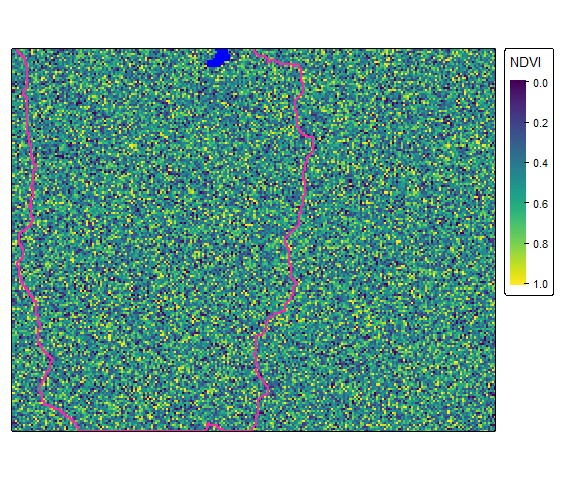
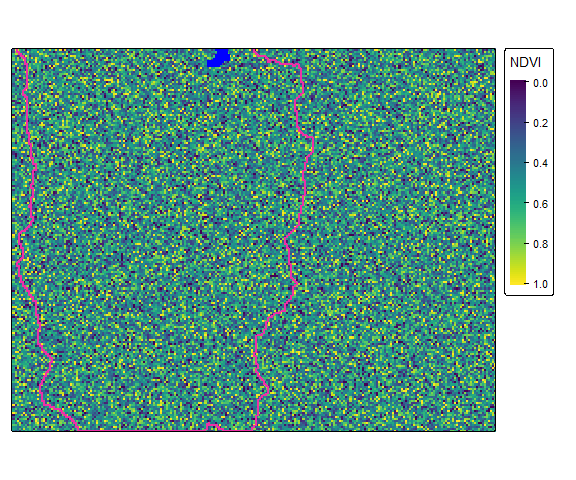
Updates zenodo badge and citation info

diff --git a/README.md b/README.md
@@ -53,7 +53,7 @@ hydroweight: Distance-weighted rasters and landscape attributes
 
 <!-- README.md is generated from this file. Please edit README.Rmd. -->
 
-[![](https://zenodo.org/badge/330996075.svg)](https://zenodo.org/badge/latestdoi/330996075)
+[![DOI](https://zenodo.org/badge/DOI/10.5281/zenodo.4728558.svg)](https://doi.org/10.5281/zenodo.4728558)
 
 # hydroweight
 
@@ -305,8 +305,8 @@ hw <- hydroweight(
   weighting_scheme = c("lumped","iEucO","iFLO","HAiFLO","iEucS","iFLS","HAiFLS"),
   inv_function    = myinv,
 )
-#> Preparing hydroweight layers @ 2026-03-28 00:26:14.042184
-#> Running distance-weighting @ 2026-03-28 00:26:14.333311
+#> Preparing hydroweight layers @ 2026-07-04 09:33:40.797256
+#> Running distance-weighting @ 2026-07-04 09:33:41.209143
 
 # hw comes in as a list of PackedSpatRaster, ensure elements are SpatRaster for plotting
 hw <- lapply(hw, rast)
@@ -857,11 +857,11 @@ sites_attributes_products <- foreach(xx = 1:nrow(tg_O_multi), .errorhandling = "
   sel_layers_hwa
 }
 #> 
-#> ******Running hydroweight() on Site 1 of 3 2026-03-28 00:26:38.569146******
+#> ******Running hydroweight() on Site 1 of 3 2026-07-04 09:34:06.701007******
 #> 
-#> ******Running hydroweight() on Site 2 of 3 2026-03-28 00:26:41.400563******
+#> ******Running hydroweight() on Site 2 of 3 2026-07-04 09:34:09.837875******
 #> 
-#> ******Running hydroweight() on Site 3 of 3 2026-03-28 00:26:44.206478******
+#> ******Running hydroweight() on Site 3 of 3 2026-07-04 09:34:13.023312******
 
 ## Sanity checks
 length(sites_attributes_products)                             # one list per site (3)
@@ -1369,7 +1369,7 @@ glimpse(threshold_df_long_ndvi)
 #> Columns: 3
 #> $ threshold    <dbl> 100, 100, 100, 100, 100, 100, 100, 250, 250, 250, 250, 25…
 #> $ scheme       <fct> lumped, iEucO, iFLO, HAiFLO, iEucS, iFLS, HAiFLS, lumped,…
-#> $ distwtd_mean <dbl> 0.4987395, 0.4986637, 0.4986506, 0.4845075, 0.4989526, 0.…
+#> $ distwtd_mean <dbl> 0.4984095, 0.4980152, 0.4978532, 0.5042273, 0.4986610, 0.…
 ```
 
 #### LULC: one row per threshold × class × scheme